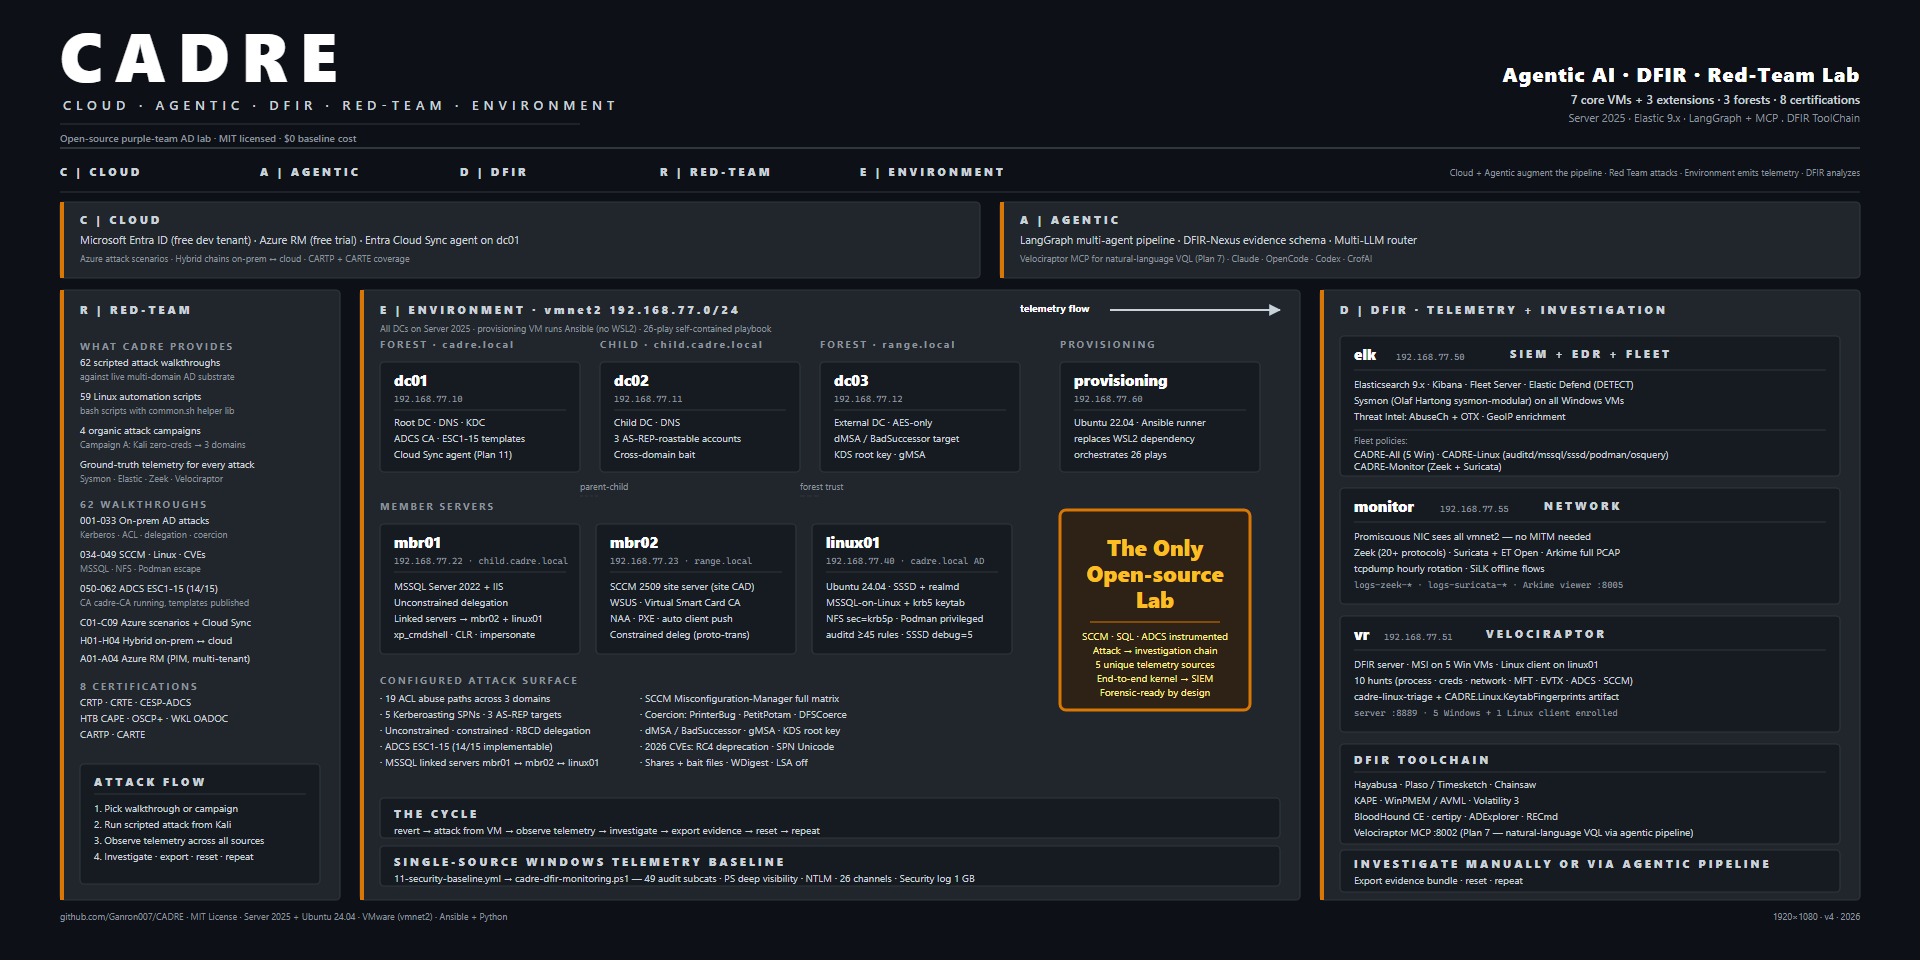
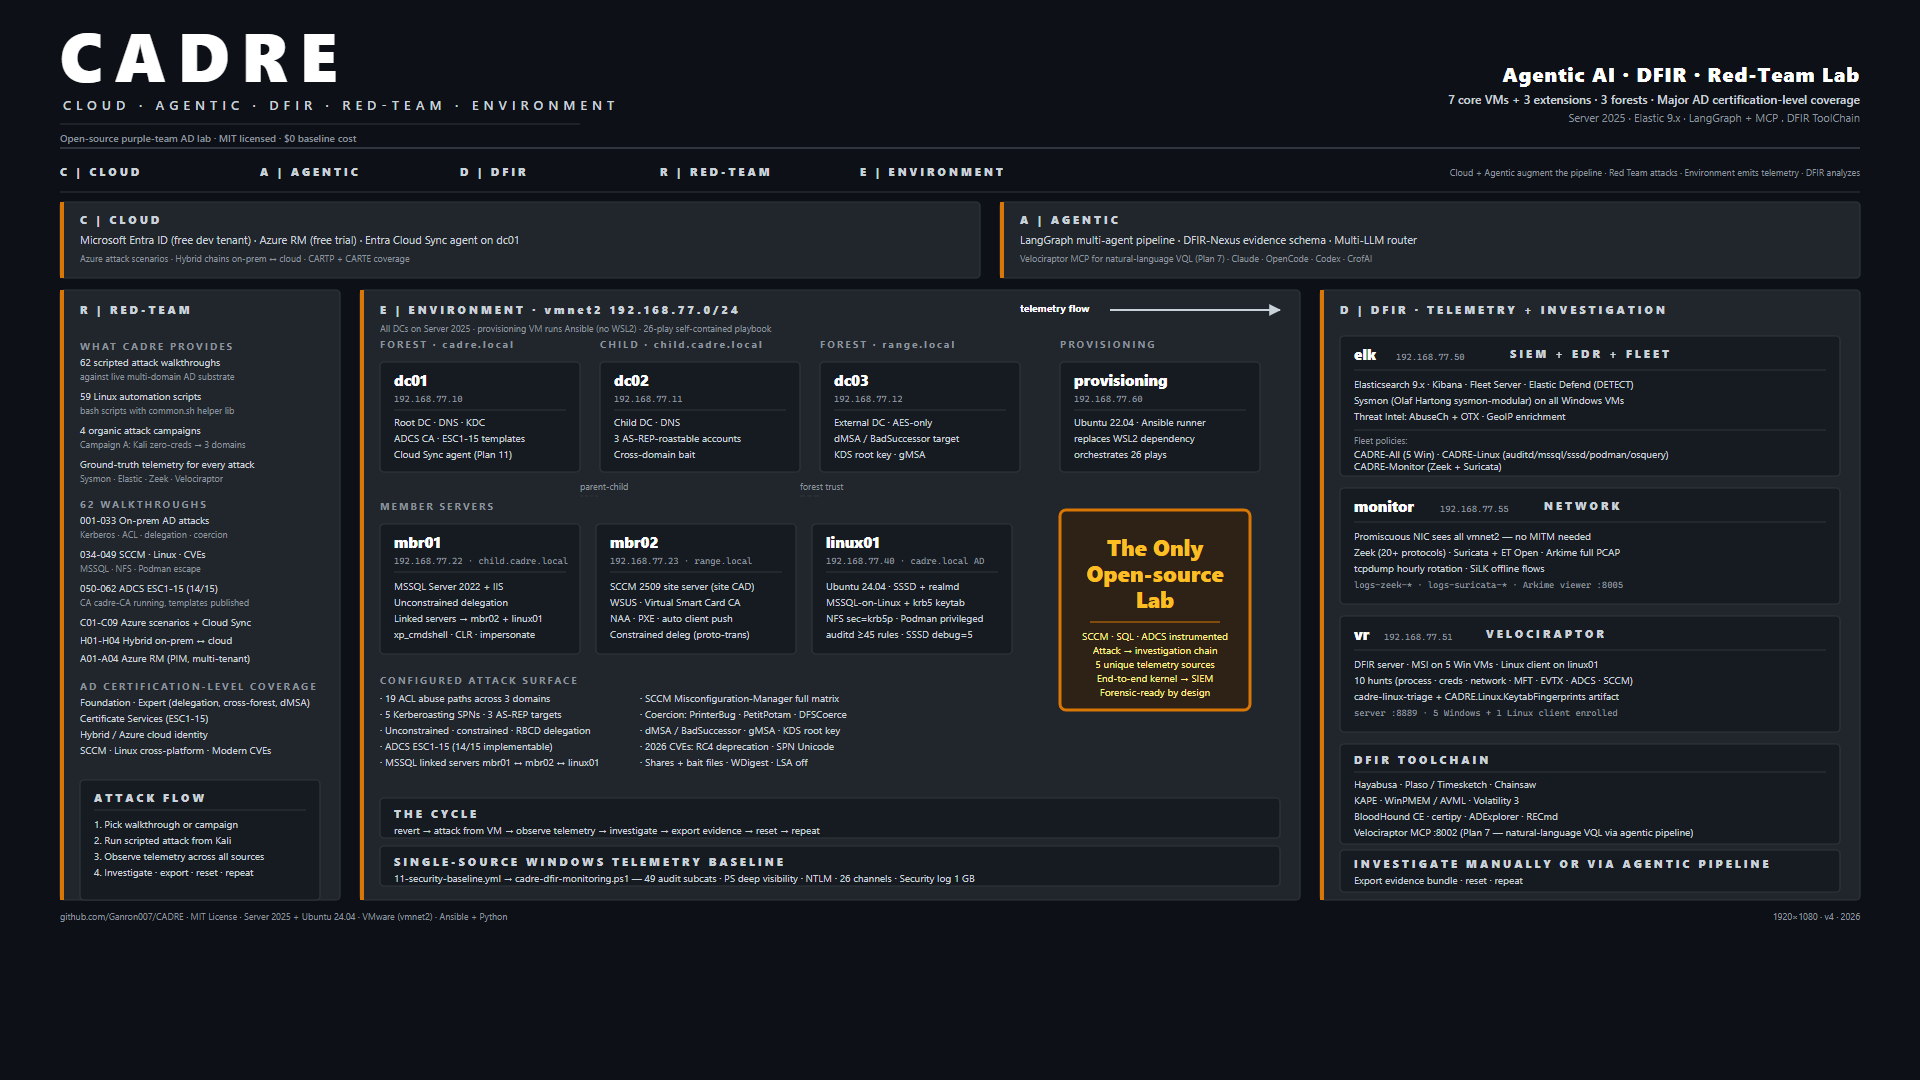
docs: scrub cert names from public README + architecture diagram

diff --git a/README.md b/README.md
@@ -19,10 +19,10 @@
 | <img src="https://img.shields.io/badge/C--Cloud-0078d4?style=flat-for-the-badge&logo=microsoftazure&logoColor=white" alt="Cloud"> | **Hybrid Cloud Identity** | Microsoft Entra ID (Free Tenant) • Azure Resource Manager (ARM) • Hybrid attack scenarios bridging On-Prem and Cloud |
 | <img src="https://img.shields.io/badge/A--Agentic-343a40?style=flat-for-the-badge&logo=openai&logoColor=white" alt="Agentic"> | **Autonomous Investigation** | LangGraph Multi-Agent Workflows • DFIR-Nexus Evidence Schema • Local LLMs & RAG Routing • Velociraptor MCP |
 | <img src="https://img.shields.io/badge/D--DFIR-5c0d12?style=flat-for-the-badge&logo=elastic&logoColor=white" alt="DFIR"> | **Forensics & Telemetry** | Elastic SIEM (Host Telemetry) • Velociraptor (Live Hunts) • Zeek & Suricata (Network Flows) • Plaso, Hayabusa & Timesketch |
-| <img src="https://img.shields.io/badge/R--Red_Team-ef4444?style=flat-for-the-badge&logo=target&logoColor=white" alt="Red-Team"> | **Offensive Emulation** | 60+ scripted attack surfaces spanning 8 industry certifications (CRTP/E, CAPE, ADCS, OADOC, CARTP/E) |
+| <img src="https://img.shields.io/badge/R--Red_Team-ef4444?style=flat-for-the-badge&logo=target&logoColor=white" alt="Red-Team"> | **Offensive Emulation** | 60+ scripted attack walkthroughs against live multi-domain AD + Azure, spanning on-prem, hybrid, and cloud identity |
 | <img src="https://img.shields.io/badge/E--Environment-14532d?style=flat-for-the-badge&logo=virtualbox&logoColor=white" alt="Environment"> | **Active Substrate** | Server 2025 (3 DCs, 2 members) • Ubuntu 24.04 Linux AD • 7 core VMs + 3 extensions (ELK, Net-Monitor, VR) |
 
-The first open-source lab combining red-team practice, agentic AI investigation, DFIR tooling, cloud identity (Azure/Entra), and 8 industry certifications in a single instrumented substrate. Every attack produces ground-truth telemetry. Investigate manually or via multi-agent AI pipeline. Export structured evidence. Reset. Repeat.
+The first open-source lab combining red-team practice, agentic AI investigation, DFIR tooling, cloud identity (Azure/Entra), and major AD certification-level attack coverage in a single instrumented substrate. Every attack produces ground-truth telemetry. Investigate manually or via multi-agent AI pipeline. Export structured evidence. Reset. Repeat.
 
 MIT licensed. $0 baseline cost.
 
@@ -44,7 +44,7 @@ Full guide: [docs/deployment.md](docs/deployment.md)
 
 ## Core Capabilities
 
-1. **Red-team practice** — 60 walkthroughs across 8 certifications against live multi-domain AD + Azure
+1. **Red-team practice** — 60 walkthroughs across major AD certification-level attack areas against live multi-domain AD + Azure
 2. **Telemetry knowledge via offense** — every attack produces artifacts across Sysmon, Elastic Defend, Zeek, Suricata, Arkime, Velociraptor
 3. **DFIR investigation** — Velociraptor VQL hunts, Hayabusa timelines, Plaso, KAPE, Volatility 3
 4. **Agentic AI investigation** — LangGraph multi-agent pipeline (6 agents) + DFIR-Nexus + multi-LLM router
@@ -68,21 +68,6 @@ Full topology: [docs/architecture.md](docs/architecture.md)
 
 ---
 
-## 8 Certifications Attack Coverage
-
-| Cert | Focus |
-|------|-------|
-| CRTP | AD pentesting fundamentals |
-| CRTE | AD expert (cross-forest, delegation, dMSA) |
-| CESP-ADCS | Certificate Services ESC1-15 |
-| HTB CAPE | AD + coercion + Linux cross-platform |
-| OSCP+ | Offensive Security AD portion |
-| WKL OADOC | SCCM Misconfiguration-Manager + Virtual Smart Cards |
-| CARTP | Azure Red Team Professional (Azure scenarios + Cloud Sync) |
-| CARTE | Azure Red Team Expert (Azure RM + PIM + multi-tenant + Arc) |
-
----
-
 ## Project Structure & Documentation
 
 Full doc index: [`DOCS.md`](DOCS.md) — start there to find the right page for what you're doing.
@@ -95,7 +80,6 @@ Full doc index: [`DOCS.md`](DOCS.md) — start there to find the right page for 
 | [Forensic Workflow](docs/forensic-workflow.md) | Attack → Telemetry → Investigate → Export → Reset cycle |
 | [Testing](docs/testing-recommendations.md) | 83-check verification recipe |
 | [DFIR Logging Reference](docs/dfir-logging-reference.md) | Every channel / EID / auditd key / Elastic index in one page |
-| [Cert Coverage](docs/cert-coverage.md) | Honest % coverage for all 8 certifications (post-deploy + roadmap completion) |
 | [Goals / Roadmap](docs/goals.md) | 11-plan roadmap with status |
 
 ---
